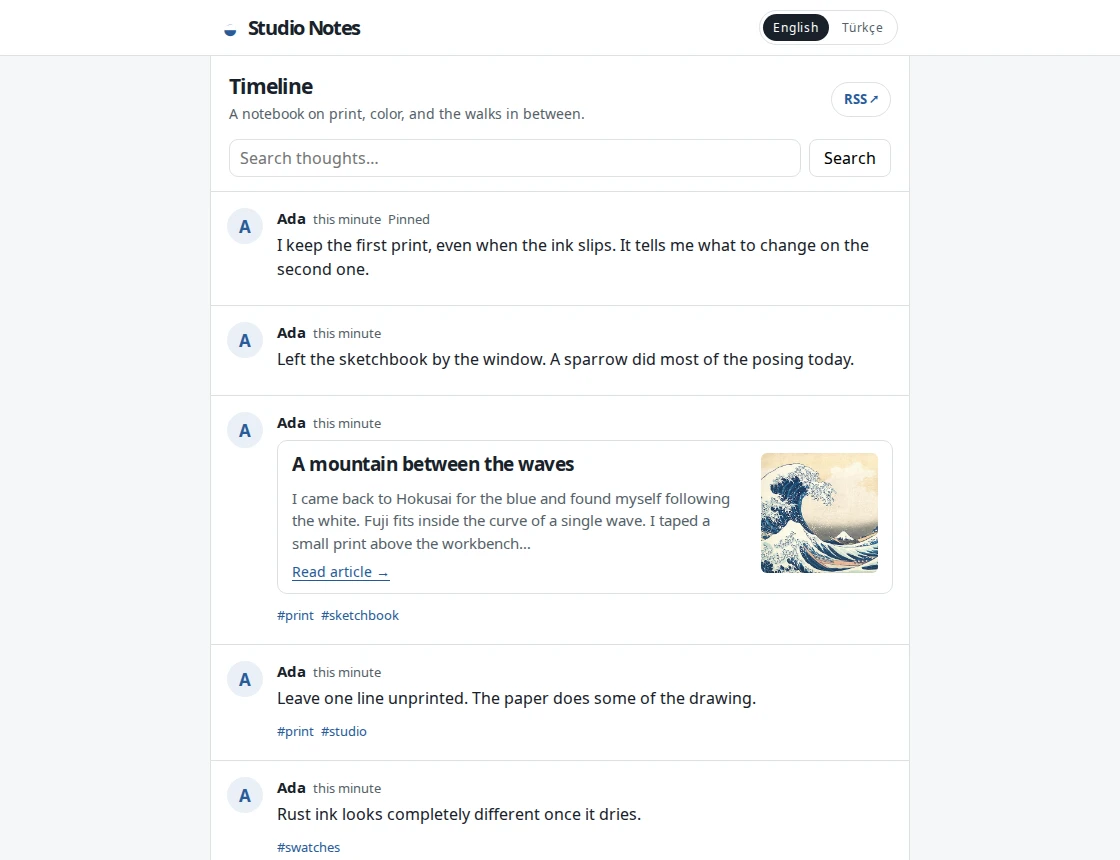
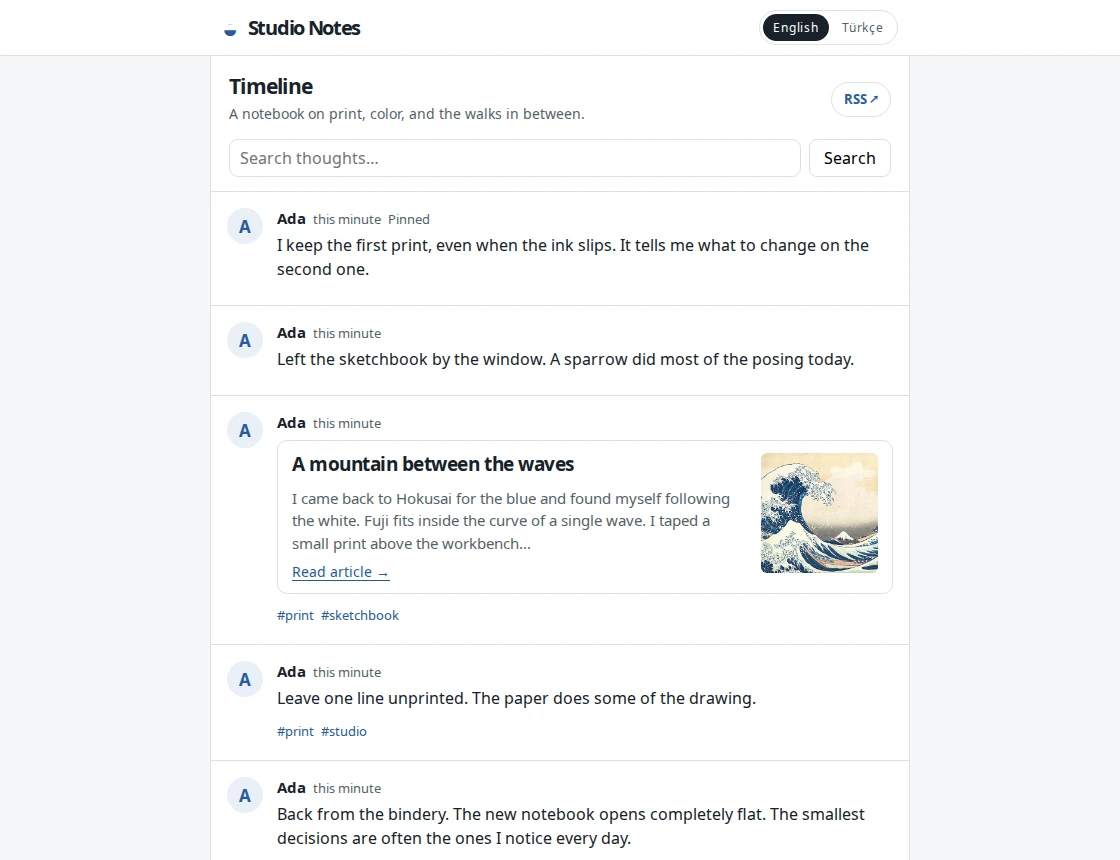
Refresh the screenshot gallery with desktop and mobile short post permalinks

Changed region(s): [[0.25, 0.9372, 0.7812, 0.9977]]

diff --git a/README.md b/README.md
@@ -76,7 +76,7 @@ Run `bun run build:pages` to render the English and Turkish React site into `pag
 
 <!-- gallery:start -->
 <details>
-<summary>Application screenshots (34)</summary>
+<summary>Application screenshots (36)</summary>
 
 Build the Go binary (see Local development), install Chromium with `bun run --bun playwright install chromium`, and run `bun run screenshots` to refresh this gallery. The script creates and removes its own demo instance.
 
@@ -103,6 +103,10 @@ Build the Go binary (see Local development), install Chromium with `bun run --bu
 **Password, authenticator and passkey login**
 
 ![Password, authenticator and passkey login](https://sametcn99.github.io/th0ughts/screenshots/login.webp)
+
+**A short post at its permanent link**
+
+![A short post at its permanent link](https://sametcn99.github.io/th0ughts/screenshots/short-post.webp)
 
 **An article opened from the timeline**
 
@@ -203,6 +207,10 @@ Build the Go binary (see Local development), install Chromium with `bun run --bu
 **Mobile timeline in Turkish**
 
 ![Mobile timeline in Turkish](https://sametcn99.github.io/th0ughts/screenshots/mobile.webp)
+
+**A short post on mobile**
+
+![A short post on mobile](https://sametcn99.github.io/th0ughts/screenshots/mobile-short-post.webp)
 
 **Translated post on mobile**
 
